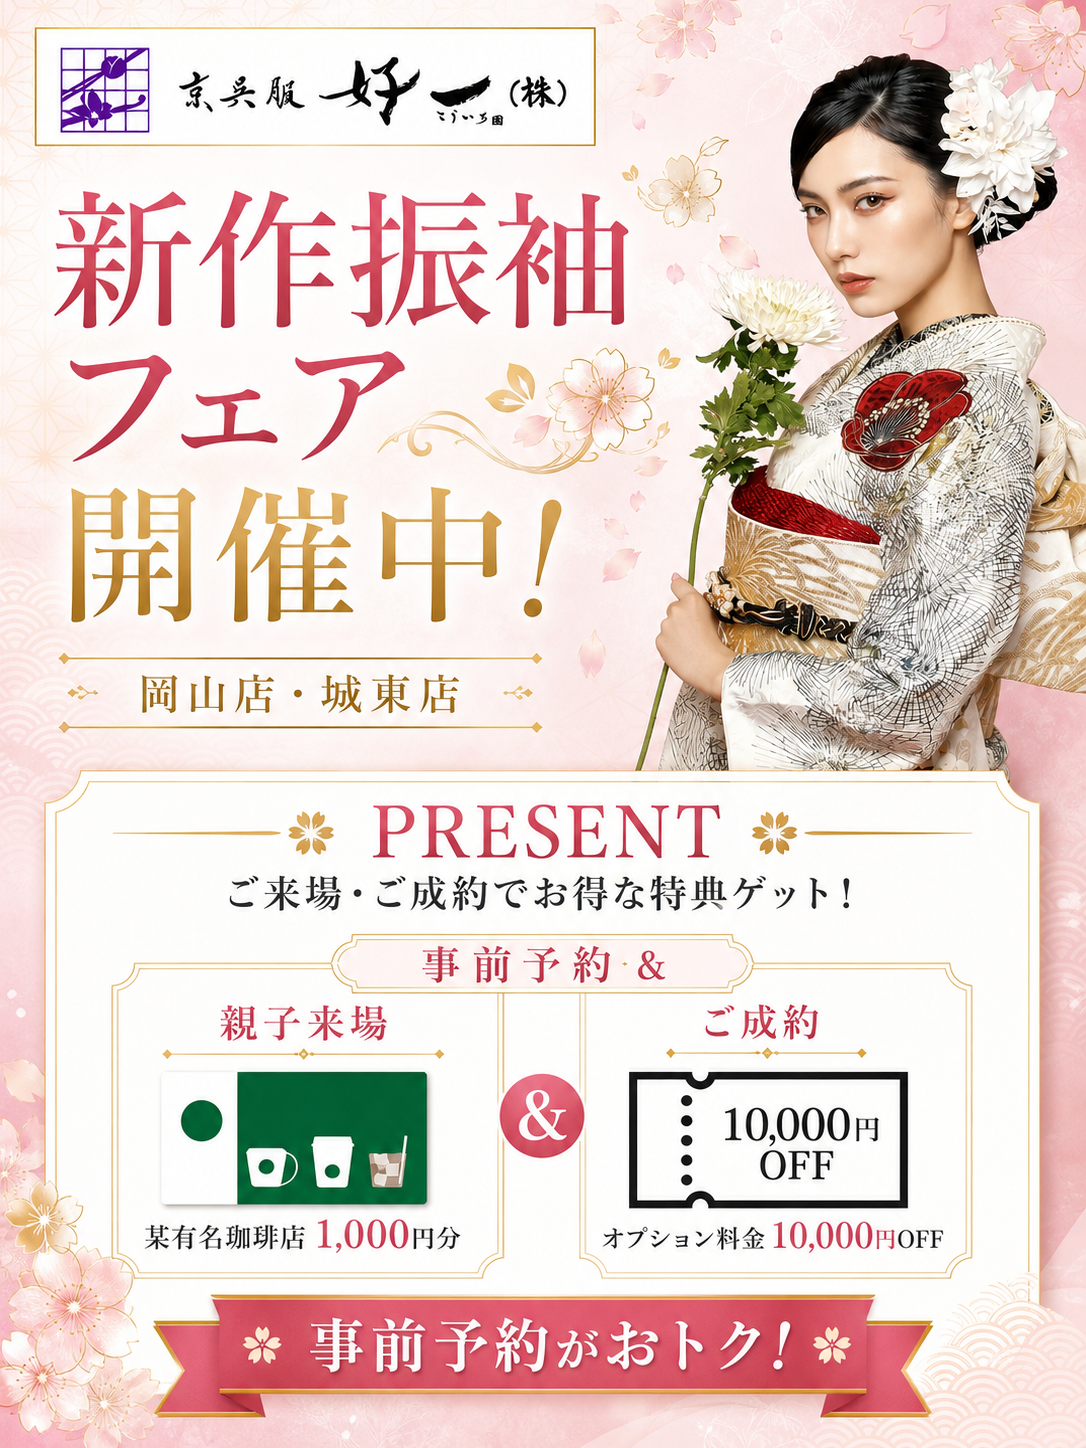
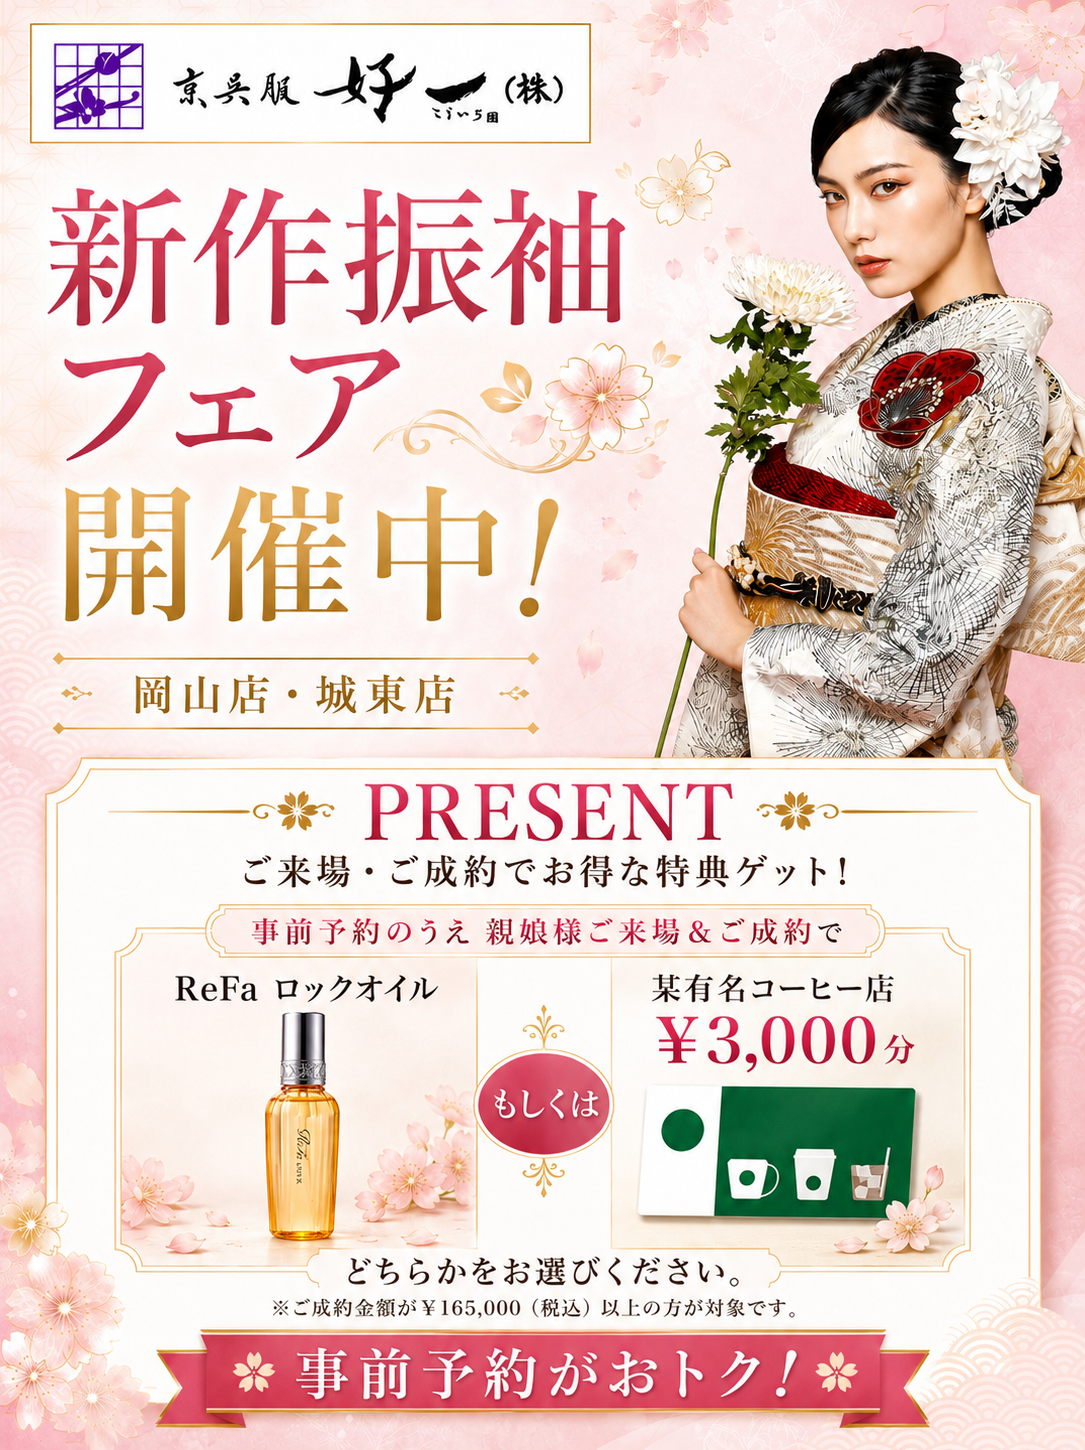
feat(lp): shop_visit テンプレに電話CTA追加・成人式予定年自動計算・岡山ポスター差替
- ヒーロー/最終CTA/Sticky の3箇所をWEB+電話の2ボタン構成に統一
- slugで岡山(086-242-1529)/福井(0776-34-1529)の電話番号を出し分け
- 生年月日入力時に成人式予定年を自動計算（早生まれ判定込み、Vue既存ロジック踏襲）
- CTAボタンサイズを揃えるよう .sv-hero__cta-group / Sticky CSS を調整
- poster_kouichi.png を新作振袖フェア版に差替

diff --git a/resources/views/event/lp/templates/shop_visit.blade.php b/resources/views/event/lp/templates/shop_visit.blade.php
@@ -18,6 +18,9 @@
     $brandJp = $isHirata ? '京呉服 平田' : '京呉服 好一';
     $brandEn = $isHirata ? 'KYOGOFUKU HIRATA' : 'KYOGOFUKU KOUICHI';
 
+    // 代表店舗の電話番号（CTA用）：福井=福井店、岡山=岡山店
+    $ctaPhone = $isHirata ? '0776-34-1529' : '086-242-1529';
+
     // 振袖プレビュー：固定の7枚（運用で追加の振袖画像を増やしたい場合は配列を編集）
     $previewImages = [
         ['url' => $imgBase.'/furisode_01.webp', 'alt' => '振袖 01'],
@@ -105,14 +108,27 @@
             backdrop-filter: blur(8px); -webkit-backdrop-filter: blur(8px);
             box-shadow: 0 -6px 20px rgba(196,106,126,.12);
         }
+        .sv-sticky-cta__row {
+            display: flex; gap: 8px; align-items: stretch;
+        }
         .sv-sticky-cta a {
-            display: block; text-align: center; padding: 14px;
+            flex: 1 1 0; min-width: 0;
+            display: inline-flex; flex-direction: column; align-items: center;
+            justify-content: center; text-align: center;
+            padding: 10px 12px; min-height: 52px; box-sizing: border-box;
             background: var(--sv-accent); color: #fff;
             font-family: 'Shippori Mincho B1', serif; font-weight: 700;
-            text-decoration: none; border-radius: 999px; letter-spacing: .15em;
-            font-size: 1rem; box-shadow: 0 6px 14px rgba(196,106,126,.3);
+            text-decoration: none; border-radius: 999px; letter-spacing: .12em;
+            font-size: .95rem; line-height: 1.2;
+            box-shadow: 0 6px 14px rgba(196,106,126,.3);
         }
-        .sv-sticky-cta a::after { content: " ▶"; font-size: .8em; margin-left: 6px; }
+        .sv-sticky-cta a.sv-sticky-cta__phone {
+            background: #fff; color: var(--sv-accent-d);
+            border: 2px solid var(--sv-accent);
+        }
+        .sv-sticky-cta a.sv-sticky-cta__phone .sv-sticky-cta__num {
+            font-size: .95rem; letter-spacing: .04em;
+        }
         body { padding-bottom: 76px; }
     }
 
@@ -182,6 +198,37 @@
         box-shadow: 0 16px 36px rgba(196,106,126,.42);
     }
     .sv-hero__cta-button::after { content: " ▶"; font-size: .8em; margin-left: 6px; }
+    /* 電話ボタン（CTA第二ボタン） */
+    .sv-hero__cta-button--phone {
+        background: #fff; color: var(--sv-accent-d);
+        border: 2px solid var(--sv-accent);
+        box-shadow: 0 8px 22px rgba(196,106,126,.18);
+    }
+    .sv-hero__cta-button--phone:hover {
+        background: var(--sv-pink); color: var(--sv-accent-d);
+        box-shadow: 0 12px 28px rgba(196,106,126,.28);
+    }
+    .sv-hero__cta-button--phone::after { content: none; }
+    .sv-hero__cta-button__num {
+        font-family: 'Shippori Mincho B1', serif; font-weight: 700;
+        font-size: 1.05rem; letter-spacing: .08em; color: var(--sv-accent-d);
+        line-height: 1.2;
+    }
+    /* CTAボタン縦並び（WEB + 電話）— 共通サイズ */
+    .sv-hero__cta-group {
+        display: flex; flex-direction: column; align-items: stretch; gap: 12px;
+        max-width: 360px; margin: 0 auto;
+    }
+    .sv-hero__cta-group .sv-hero__cta-button {
+        width: 100%; box-sizing: border-box;
+        padding: 16px 28px; min-height: 64px;
+        display: inline-flex; flex-direction: column; align-items: center;
+        justify-content: center; gap: 2px;
+        line-height: 1.25; letter-spacing: .2em;
+    }
+    .sv-hero__cta-group .sv-hero__cta-button::after {
+        content: none;
+    }
     .sv-hero__cta-note { display: block; margin-top: 12px;
         color: var(--sv-text-soft); font-size: .85rem;
         font-family: 'Shippori Mincho B1', serif; }
@@ -519,11 +566,11 @@
     }
     .sv-final-cta p { margin: 0 0 28px; color: var(--sv-text-soft);
         font-family: 'Shippori Mincho B1', serif; }
-    .sv-final-cta .sv-hero__cta-button {
+    .sv-final-cta .sv-hero__cta-button:not(.sv-hero__cta-button--phone) {
         background: var(--sv-paper); color: var(--sv-accent);
         box-shadow: 0 10px 24px rgba(0,0,0,.10);
     }
-    .sv-final-cta .sv-hero__cta-button:hover { background: #fff; color: var(--sv-accent-d); }
+    .sv-final-cta .sv-hero__cta-button:not(.sv-hero__cta-button--phone):hover { background: #fff; color: var(--sv-accent-d); }
 
     .sv-footer { padding: 32px 0 24px; text-align: center;
         color: var(--sv-text-soft); font-family: 'Shippori Mincho B1', serif;
@@ -541,7 +588,13 @@
 
 {{-- ========== Sticky CTA（モバイル） ========== --}}
 <div class="sv-sticky-cta">
-    <a href="#reserve">ご来店予約はこちら</a>
+    <div class="sv-sticky-cta__row">
+        <a href="#reserve">WEBで予約する</a>
+        <a href="tel:{{ preg_replace('/[^0-9+]/', '', $ctaPhone) }}" class="sv-sticky-cta__phone">
+            <span>お電話で予約</span>
+            <span class="sv-sticky-cta__num">{{ $ctaPhone }}</span>
+        </a>
+    </div>
 </div>
 
 {{-- ========== ヘッダ ========== --}}
@@ -564,7 +617,13 @@
                 「料金感だけ知りたい」<br>
                 <strong>そんな方こそ、 ぜひお気軽に。</strong>
             </p>
-            <a href="#reserve" class="sv-hero__cta-button">ご来店予約はこちら</a>
+            <div class="sv-hero__cta-group">
+                <a href="#reserve" class="sv-hero__cta-button">WEBで予約する</a>
+                <a href="tel:{{ preg_replace('/[^0-9+]/', '', $ctaPhone) }}" class="sv-hero__cta-button sv-hero__cta-button--phone">
+                    <span>お電話で予約する</span>
+                    <span class="sv-hero__cta-button__num">{{ $ctaPhone }}</span>
+                </a>
+            </div>
             <small class="sv-hero__cta-note">▼ 30秒で完了 ／ ご相談のみも歓迎です</small>
         </div>
     </div>
@@ -832,6 +891,17 @@
                 method="POST"
                 action="{{ route('blade-lp.reserve', $event) }}"
                 x-data="{ submitting: false, values: @js($alpineInit) }"
+                x-init="$watch('values.birth_date', (v) => {
+                    if (!v || !('seijin_year' in values)) return;
+                    const d = new Date(String(v));
+                    if (Number.isNaN(d.getTime())) return;
+                    const y = d.getFullYear();
+                    const m = d.getMonth() + 1;
+                    const day = d.getDate();
+                    const isEarly = (m < 4) || (m === 4 && day === 1);
+                    const seijinYear = isEarly ? (y + 20) : (y + 21);
+                    values.seijin_year = String(seijinYear);
+                })"
                 @submit="submitting = true"
                 novalidate
             >
@@ -912,7 +982,13 @@
     <div class="sv-wrap">
         <h2>お話だけでも、 歓迎しております。</h2>
         <p>少しでも気になったら、 まずはお気軽にどうぞ。</p>
-        <a href="#reserve" class="sv-hero__cta-button">ご来店予約はこちら</a>
+        <div class="sv-hero__cta-group">
+            <a href="#reserve" class="sv-hero__cta-button">WEBで予約する</a>
+            <a href="tel:{{ preg_replace('/[^0-9+]/', '', $ctaPhone) }}" class="sv-hero__cta-button sv-hero__cta-button--phone">
+                <span>お電話で予約する</span>
+                <span class="sv-hero__cta-button__num">{{ $ctaPhone }}</span>
+            </a>
+        </div>
     </div>
 </section>
 